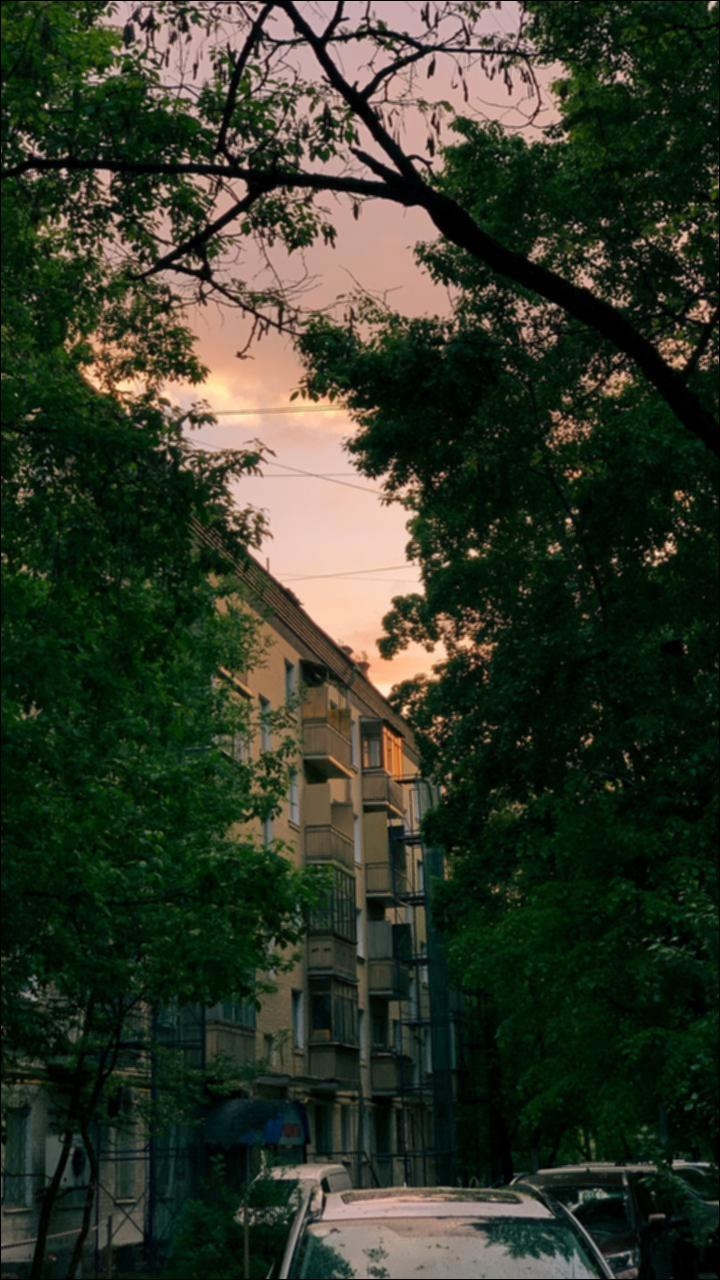
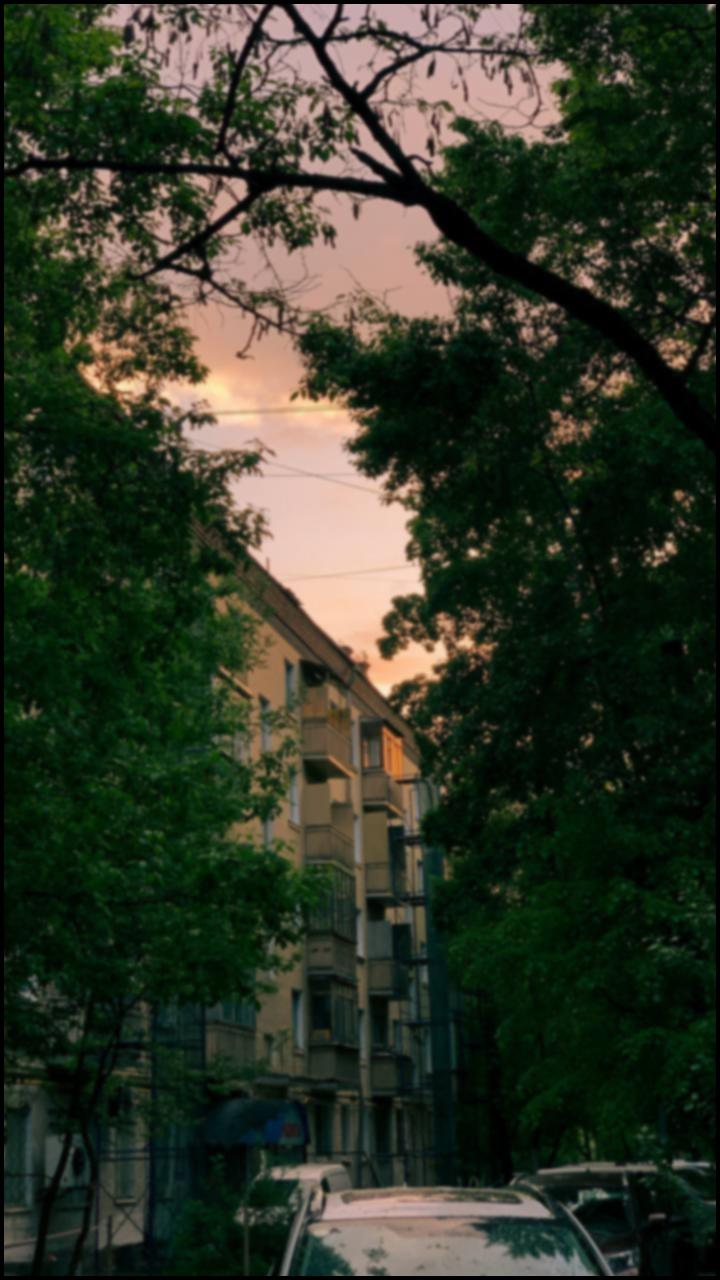
dr

diff --git a/GB2.py b/GB2.py
@@ -11,7 +11,7 @@ from matplotlib import pyplot as plt
 import numpy as np
 import cv2 as cv
 #------------------------ CONSTS ------------------------
-pix_r = 3
+pix_r = 10
 sigma = 1.5
 #------------------------ CONSTS ------------------------
 #------------------------  FUNCTIONS  ------------------------
@@ -32,8 +32,8 @@ def Weight_Matrix_(sigma_, rad_):
             pos_y[i,j] = -1*tepm_x
                         
         tepm_x += 1
-    print("pos_x\n",pos_x)
-    print('pos_y\n',pos_y)
+    #print("pos_x\n",pos_x)
+    #print('pos_y\n',pos_y)
     res = gauss_func(sigma_,pos_x) * gauss_func(sigma_,pos_y)
     
     return res
@@ -71,9 +71,15 @@ for i in range (pix_r,im.shape[0] - pix_r):
         #1-verde (green)
         #2-azul (blue)
 
+        #temp_small_im = im[i - pix_r : i + 2 * pix_r, j - pix_r : j + 2 * pix_r , : ]
 
-        temp_small_im = im[i - pix_r : i + 2 * pix_r, j - pix_r : j + 2 * pix_r , : ]
-        
+        temp_small_im = im[i - pix_r : i + 1 + pix_r, j - pix_r : j + 1 + pix_r , : ]
+        #print(i - pix_r)
+        #print(i +  pix_r)
+        #print('Weight_Matrix',Weight_Matrix.shape)
+        #print("temp_small_im",temp_small_im.shape)
+        #break
+    #break
         #red_one =  temp_small_im[:,:,0] * Weight_Matrix  
         #red_one = int(np.sum(temp_small_im[:,:,0] * Weight_Matrix ))
         #green_one = temp_small_im[:,:,1] * Weight_Matrix 
@@ -107,8 +113,8 @@ plt.figure(num= None, figsize=(10,10),dpi=80)
 plt.imshow(im_res.astype(np.uint8))
 plt.show()
 
-#new_im = Image.fromarray(im_res.astype(np.uint8))
-#new_im.save('g.jpg')
+new_im = Image.fromarray(im_res.astype(np.uint8))
+new_im.save('g_10.jpg')
 
 
 #------------------------ OUTPUT ------------------------
